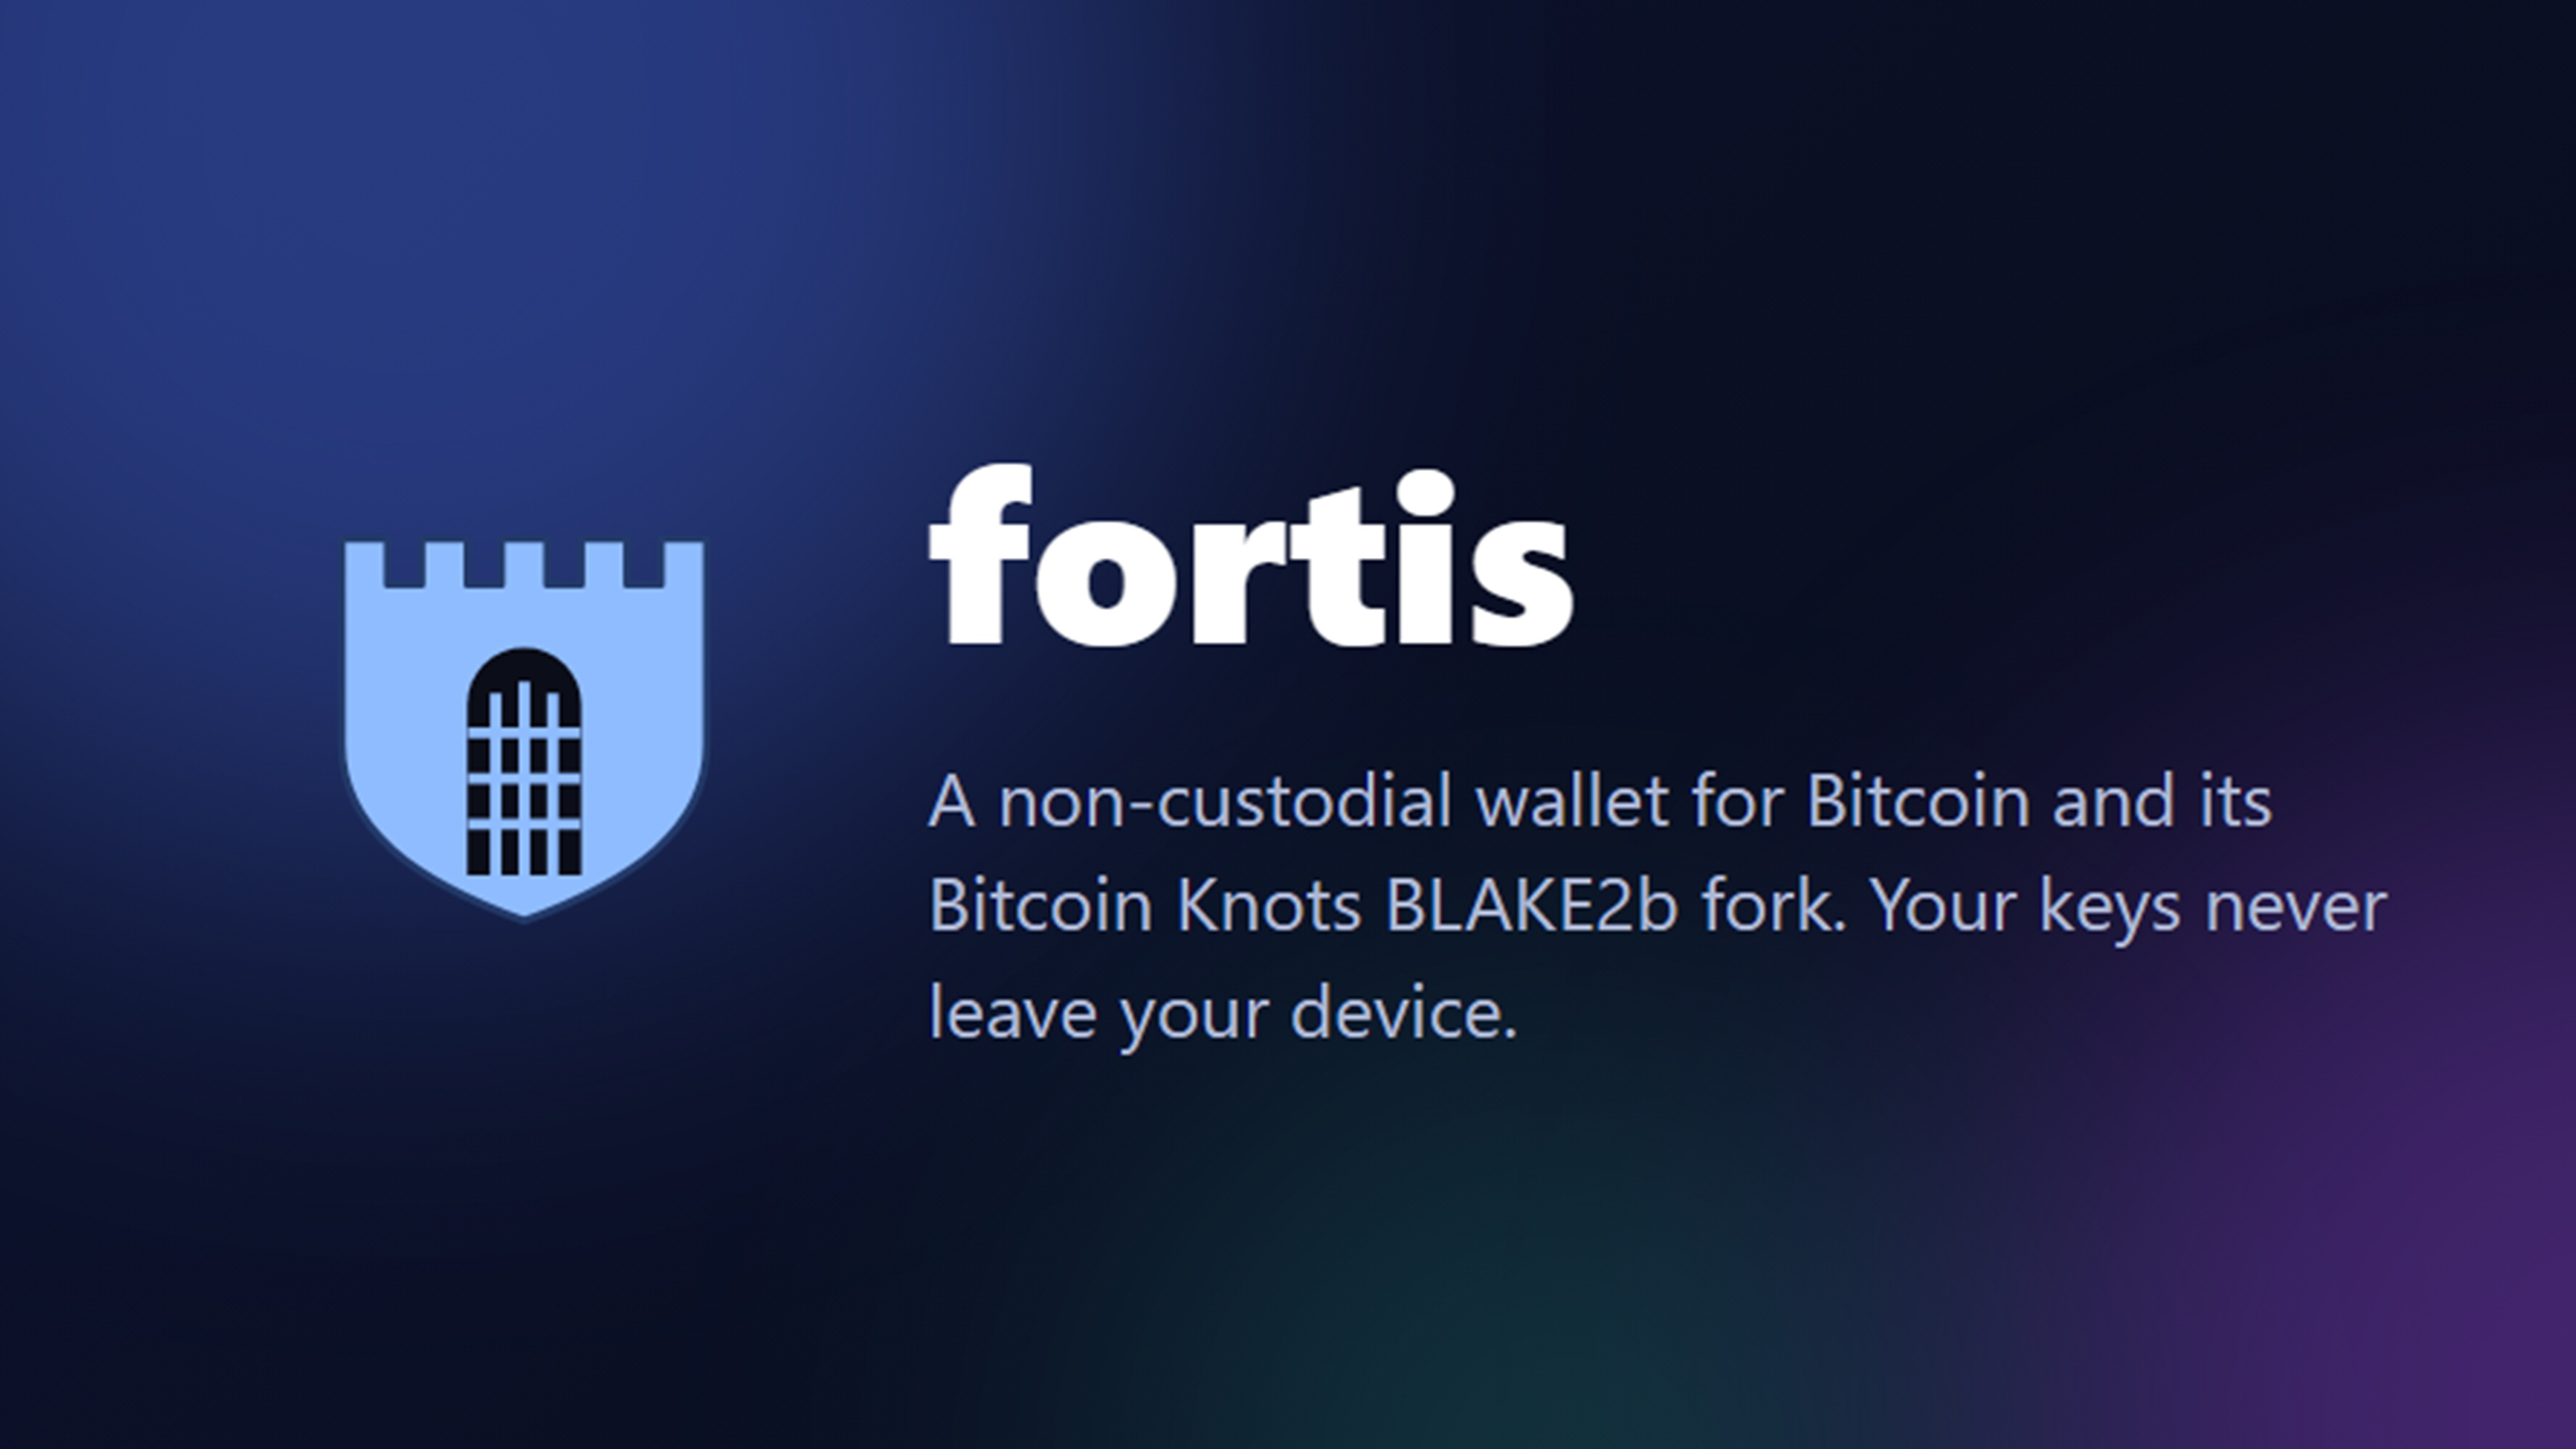
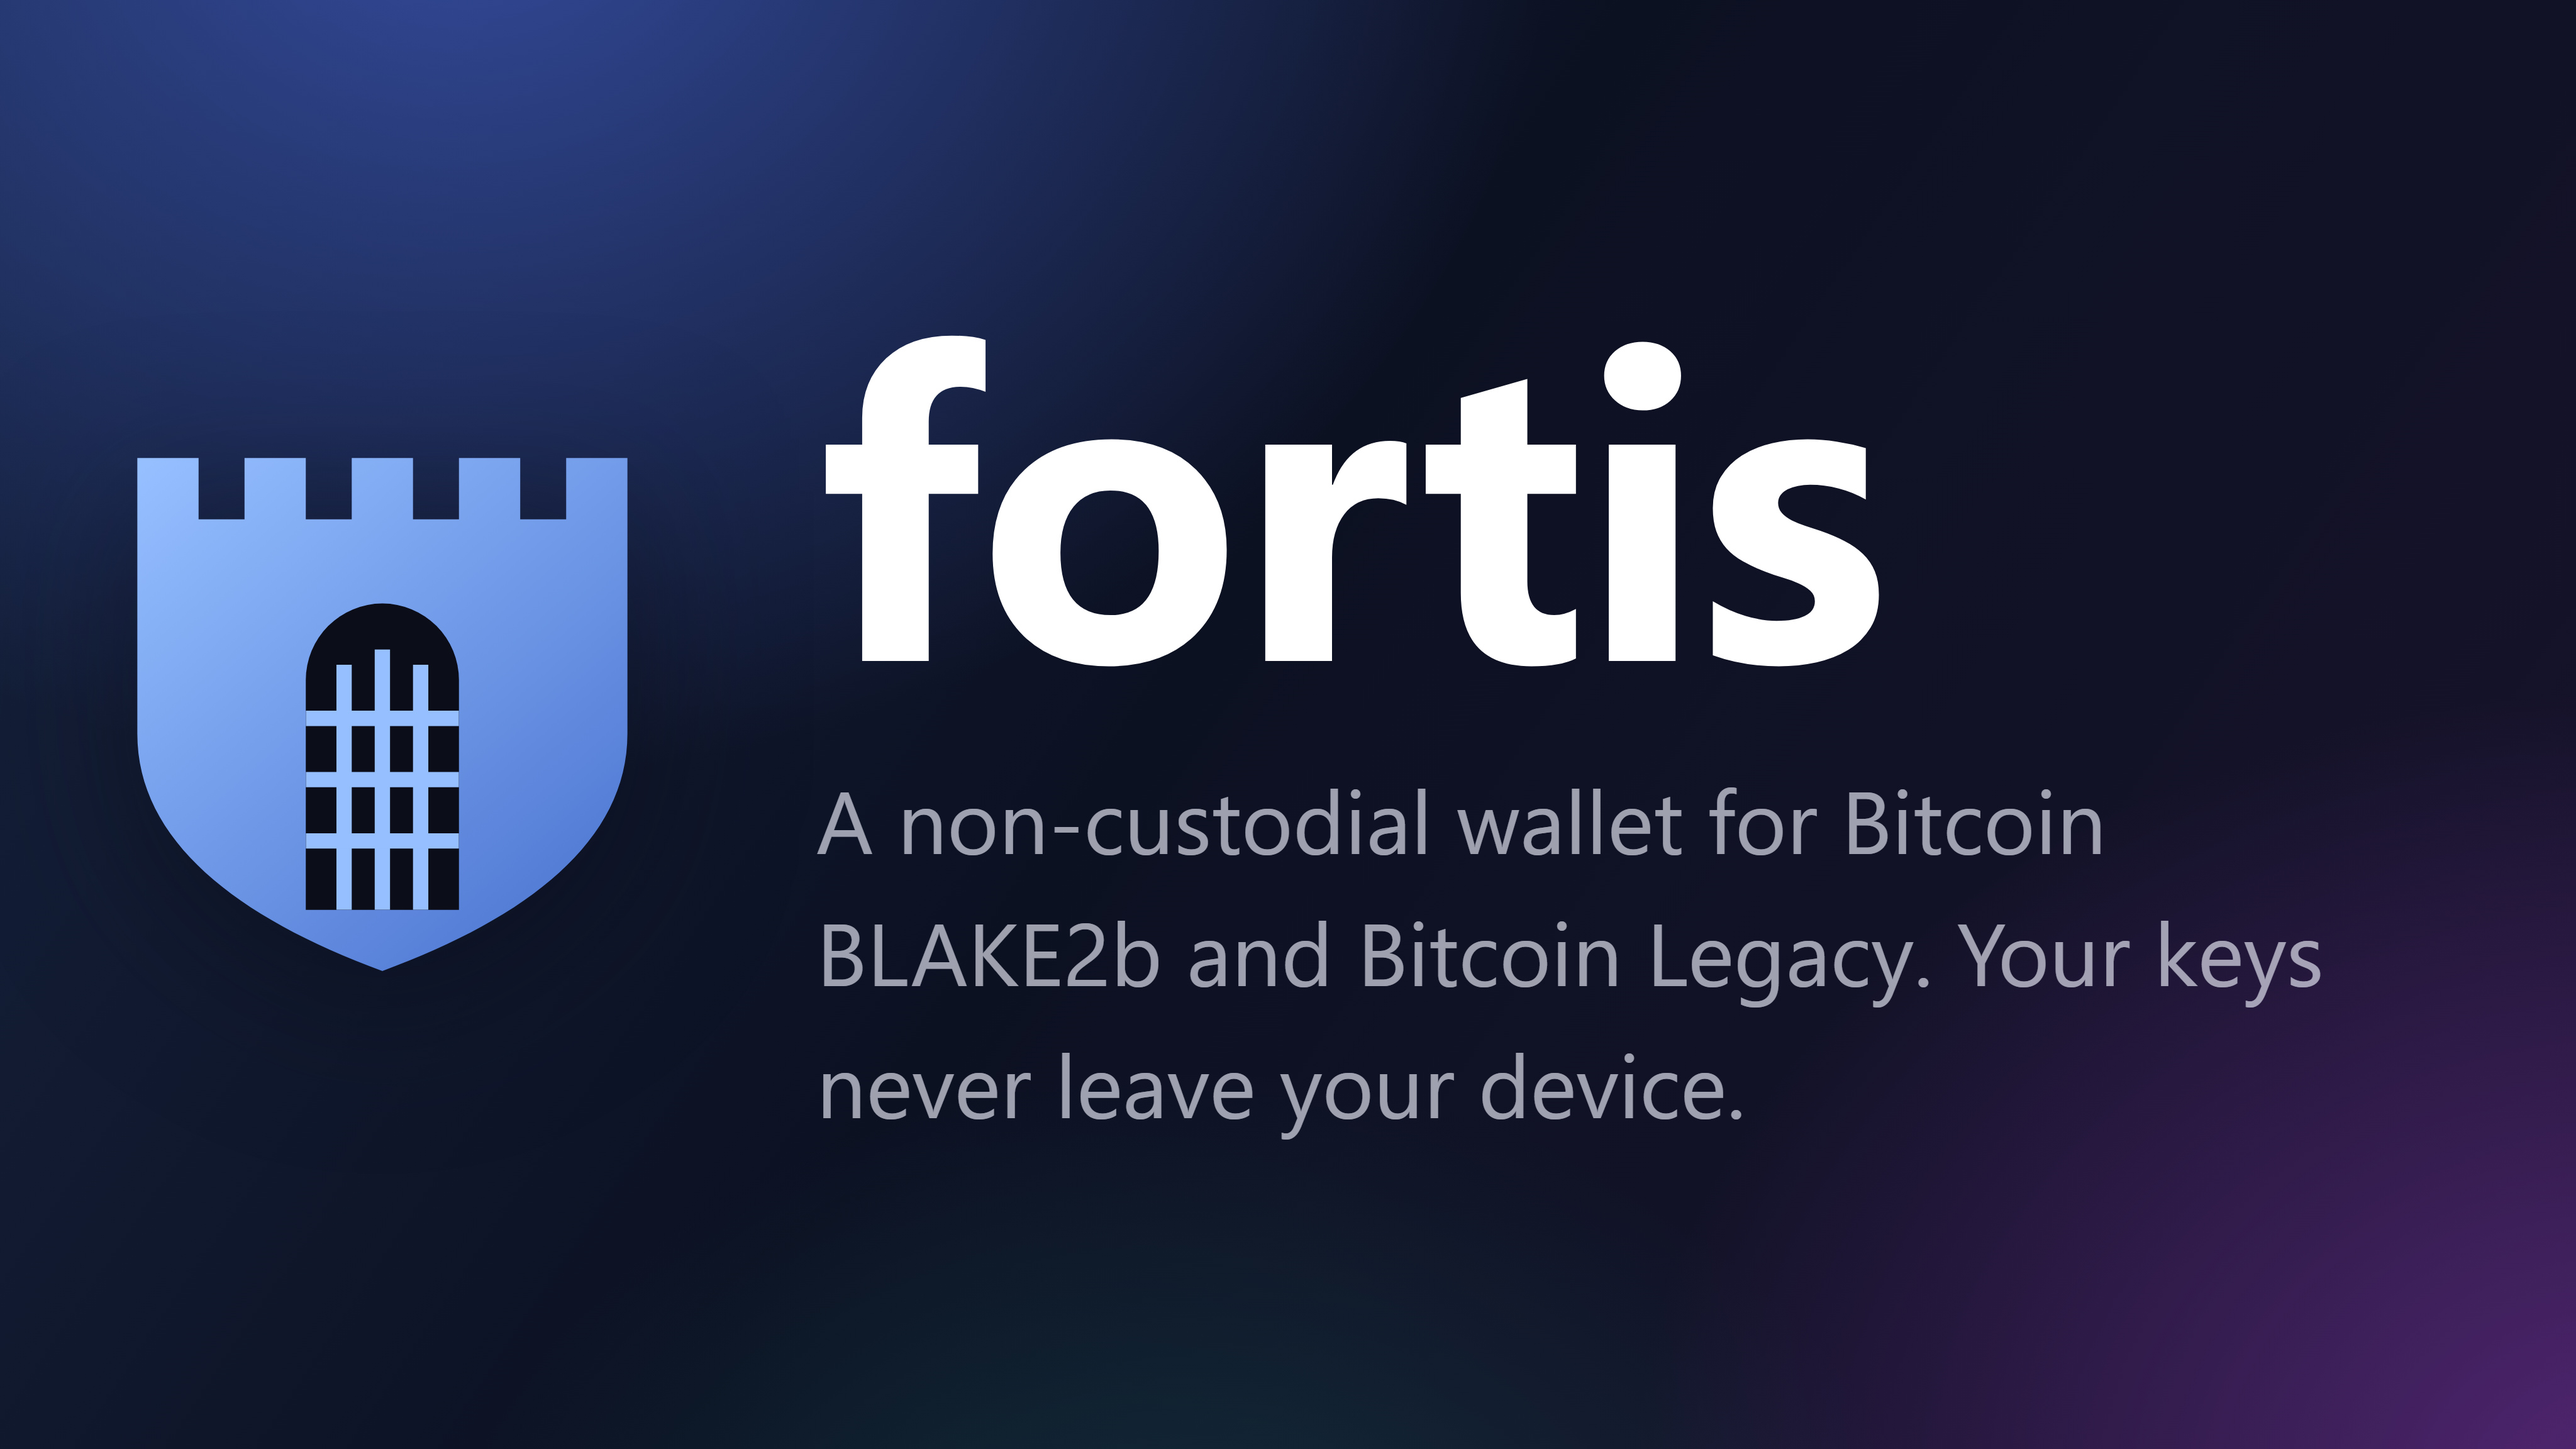
branding: retag as "Bitcoin BLAKE2b and Bitcoin Legacy"
Replace the "Bitcoin and its Bitcoin Knots BLAKE2b fork" tagline everywhere
it's used as the product one-liner: regenerated store/header_image.jpg,
the app onboarding string (English; the 75 translations follow later),
web app + manifest, site meta / hero blurb / privacy, README, RELEASE.md.

Longer prose paragraphs and the wallet-core crate description are left as-is.

Changed region(s): [[0.0, 0.1875, 0.9375, 0.7812], [0.9375, 0.5938, 1.0, 0.75]]

diff --git a/site/index.html b/site/index.html
@@ -4,7 +4,7 @@
 <meta charset="utf-8">
 <meta name="viewport" content="width=device-width, initial-scale=1">
 <title>Fortis Tech Labs — tools for Bitcoin self-custody</title>
-<meta name="description" content="Fortis Tech Labs builds non-custodial software for Bitcoin and its forks. Our first app is Fortis Wallet, for Bitcoin (BTC) and its Bitcoin Knots BLAKE2b fork (BTCB2).">
+<meta name="description" content="Fortis Tech Labs builds non-custodial software for Bitcoin and its forks. Our first app is Fortis Wallet, for Bitcoin BLAKE2b and Bitcoin Legacy.">
 <meta property="og:title" content="Fortis Tech Labs">
 <meta property="og:description" content="Non-custodial software for Bitcoin and its forks.">
 <meta property="og:type" content="website">
@@ -111,7 +111,7 @@
       <div>
         <h3>Fortis Wallet</h3>
         <p class="kicker">Android · coming to Google&nbsp;Play</p>
-        <p style="color:var(--dim)">A non-custodial mobile wallet for Bitcoin (BTC) and BTCB2 — the Bitcoin&nbsp;Knots BLAKE2b hard fork. Your recovery phrase is generated on your device, encrypted under a password you choose, and never leaves it.</p>
+        <p style="color:var(--dim)">A non-custodial mobile wallet for Bitcoin BLAKE2b and Bitcoin Legacy. Your recovery phrase is generated on your device, encrypted under a password you choose, and never leaves it.</p>
         <ul>
           <li>12- or 24-word phrase with an optional BIP-39 passphrase</li>
           <li>Send &amp; receive with QR codes and a camera scanner</li>

diff --git a/site/privacy.html b/site/privacy.html
@@ -41,8 +41,8 @@
   <h1>Privacy Policy</h1>
   <p class="meta">Effective <span class="fill">6 Sept 2026</span> · applies to the Fortis&nbsp;Wallet mobile app and its backend service, operated by Fortis&nbsp;Tech&nbsp;Labs.</p>
 
-  <p>Fortis Wallet is a <strong>non-custodial</strong> wallet for Bitcoin and its
-  Bitcoin&nbsp;Knots BLAKE2b fork. Your keys and recovery phrase are generated on your
+  <p>Fortis Wallet is a <strong>non-custodial</strong> wallet for Bitcoin&nbsp;BLAKE2b
+  and Bitcoin&nbsp;Legacy. Your keys and recovery phrase are generated on your
   device, encrypted under a password you choose, and never leave the device. We cannot
   access your funds and cannot move them for you.</p>
 

diff --git a/web/src/app.js b/web/src/app.js
@@ -115,7 +115,7 @@ function renderOnboard() {
   if (ui.screen === 'restore') return renderRestore();
   mount(el('div', { class: 'screen' },
     el('div', { class: 'spacer' }),
-    brand('a non-custodial wallet for Bitcoin and its BLAKE2b fork'),
+    brand('a non-custodial wallet for Bitcoin BLAKE2b and Bitcoin Legacy'),
     el('div', { class: 'spacer' }),
     el('button', { class: 'primary wide', onclick: () => go('gen') }, 'Create a new wallet'),
     el('button', { class: 'ghost wide', onclick: () => go('restore') }, 'Restore from a recovery phrase'),

diff --git a/store/STORE.md b/store/STORE.md
@@ -17,14 +17,14 @@ Draft copy and assets for the Play Console listing. Fill the `TODO` items.
 ## Short description (≤ 80 chars)
 
 ```
-Non-custodial wallet for Bitcoin and its Bitcoin Knots BLAKE2b fork.
+Non-custodial wallet for Bitcoin BLAKE2b and Bitcoin Legacy.
 ```
 
 ## Full description (≤ 4000 chars)
 
 ```
-fortis is a non-custodial wallet for Bitcoin (BTC) and its Bitcoin Knots BLAKE2b
-hard fork (BTCB2).
+fortis is a non-custodial wallet for Bitcoin BLAKE2b (BTCB2) and Bitcoin Legacy
+(BTC).
 
 Your keys are yours. The recovery phrase is generated on your device and
 encrypted under a password you choose. It is never uploaded, and neither fortis

diff --git a/README.md b/README.md
@@ -1,7 +1,7 @@
 # fortis
 
-A non-custodial wallet for **Bitcoin (SHA256d)** and the **Bitcoin Knots BLAKE2b
-hard fork**, with built-in cross-chain atomic swaps.
+A non-custodial wallet for **Bitcoin BLAKE2b** and **Bitcoin Legacy**, with
+built-in cross-chain atomic swaps.
 
 The security-critical logic is one audited Rust crate. It compiles to WebAssembly
 for the browser and to a native library (UniFFI) for iOS / Android — no

diff --git a/store/RELEASE.md b/store/RELEASE.md
@@ -284,7 +284,7 @@ reset progress, so tell people to leave it installed.
 **Post template:**
 
 > **Beta testers wanted — Fortis Wallet (Android)**
-> Non-custodial BTC + Bitcoin Knots BLAKE2b (BTCB2) wallet. Need 12 people to
+> Non-custodial Bitcoin BLAKE2b + Bitcoin Legacy wallet. Need 12 people to
 > stay opted in for 14 days for the Play Store requirement — you don't have to
 > use it, just keep it installed.
 >
